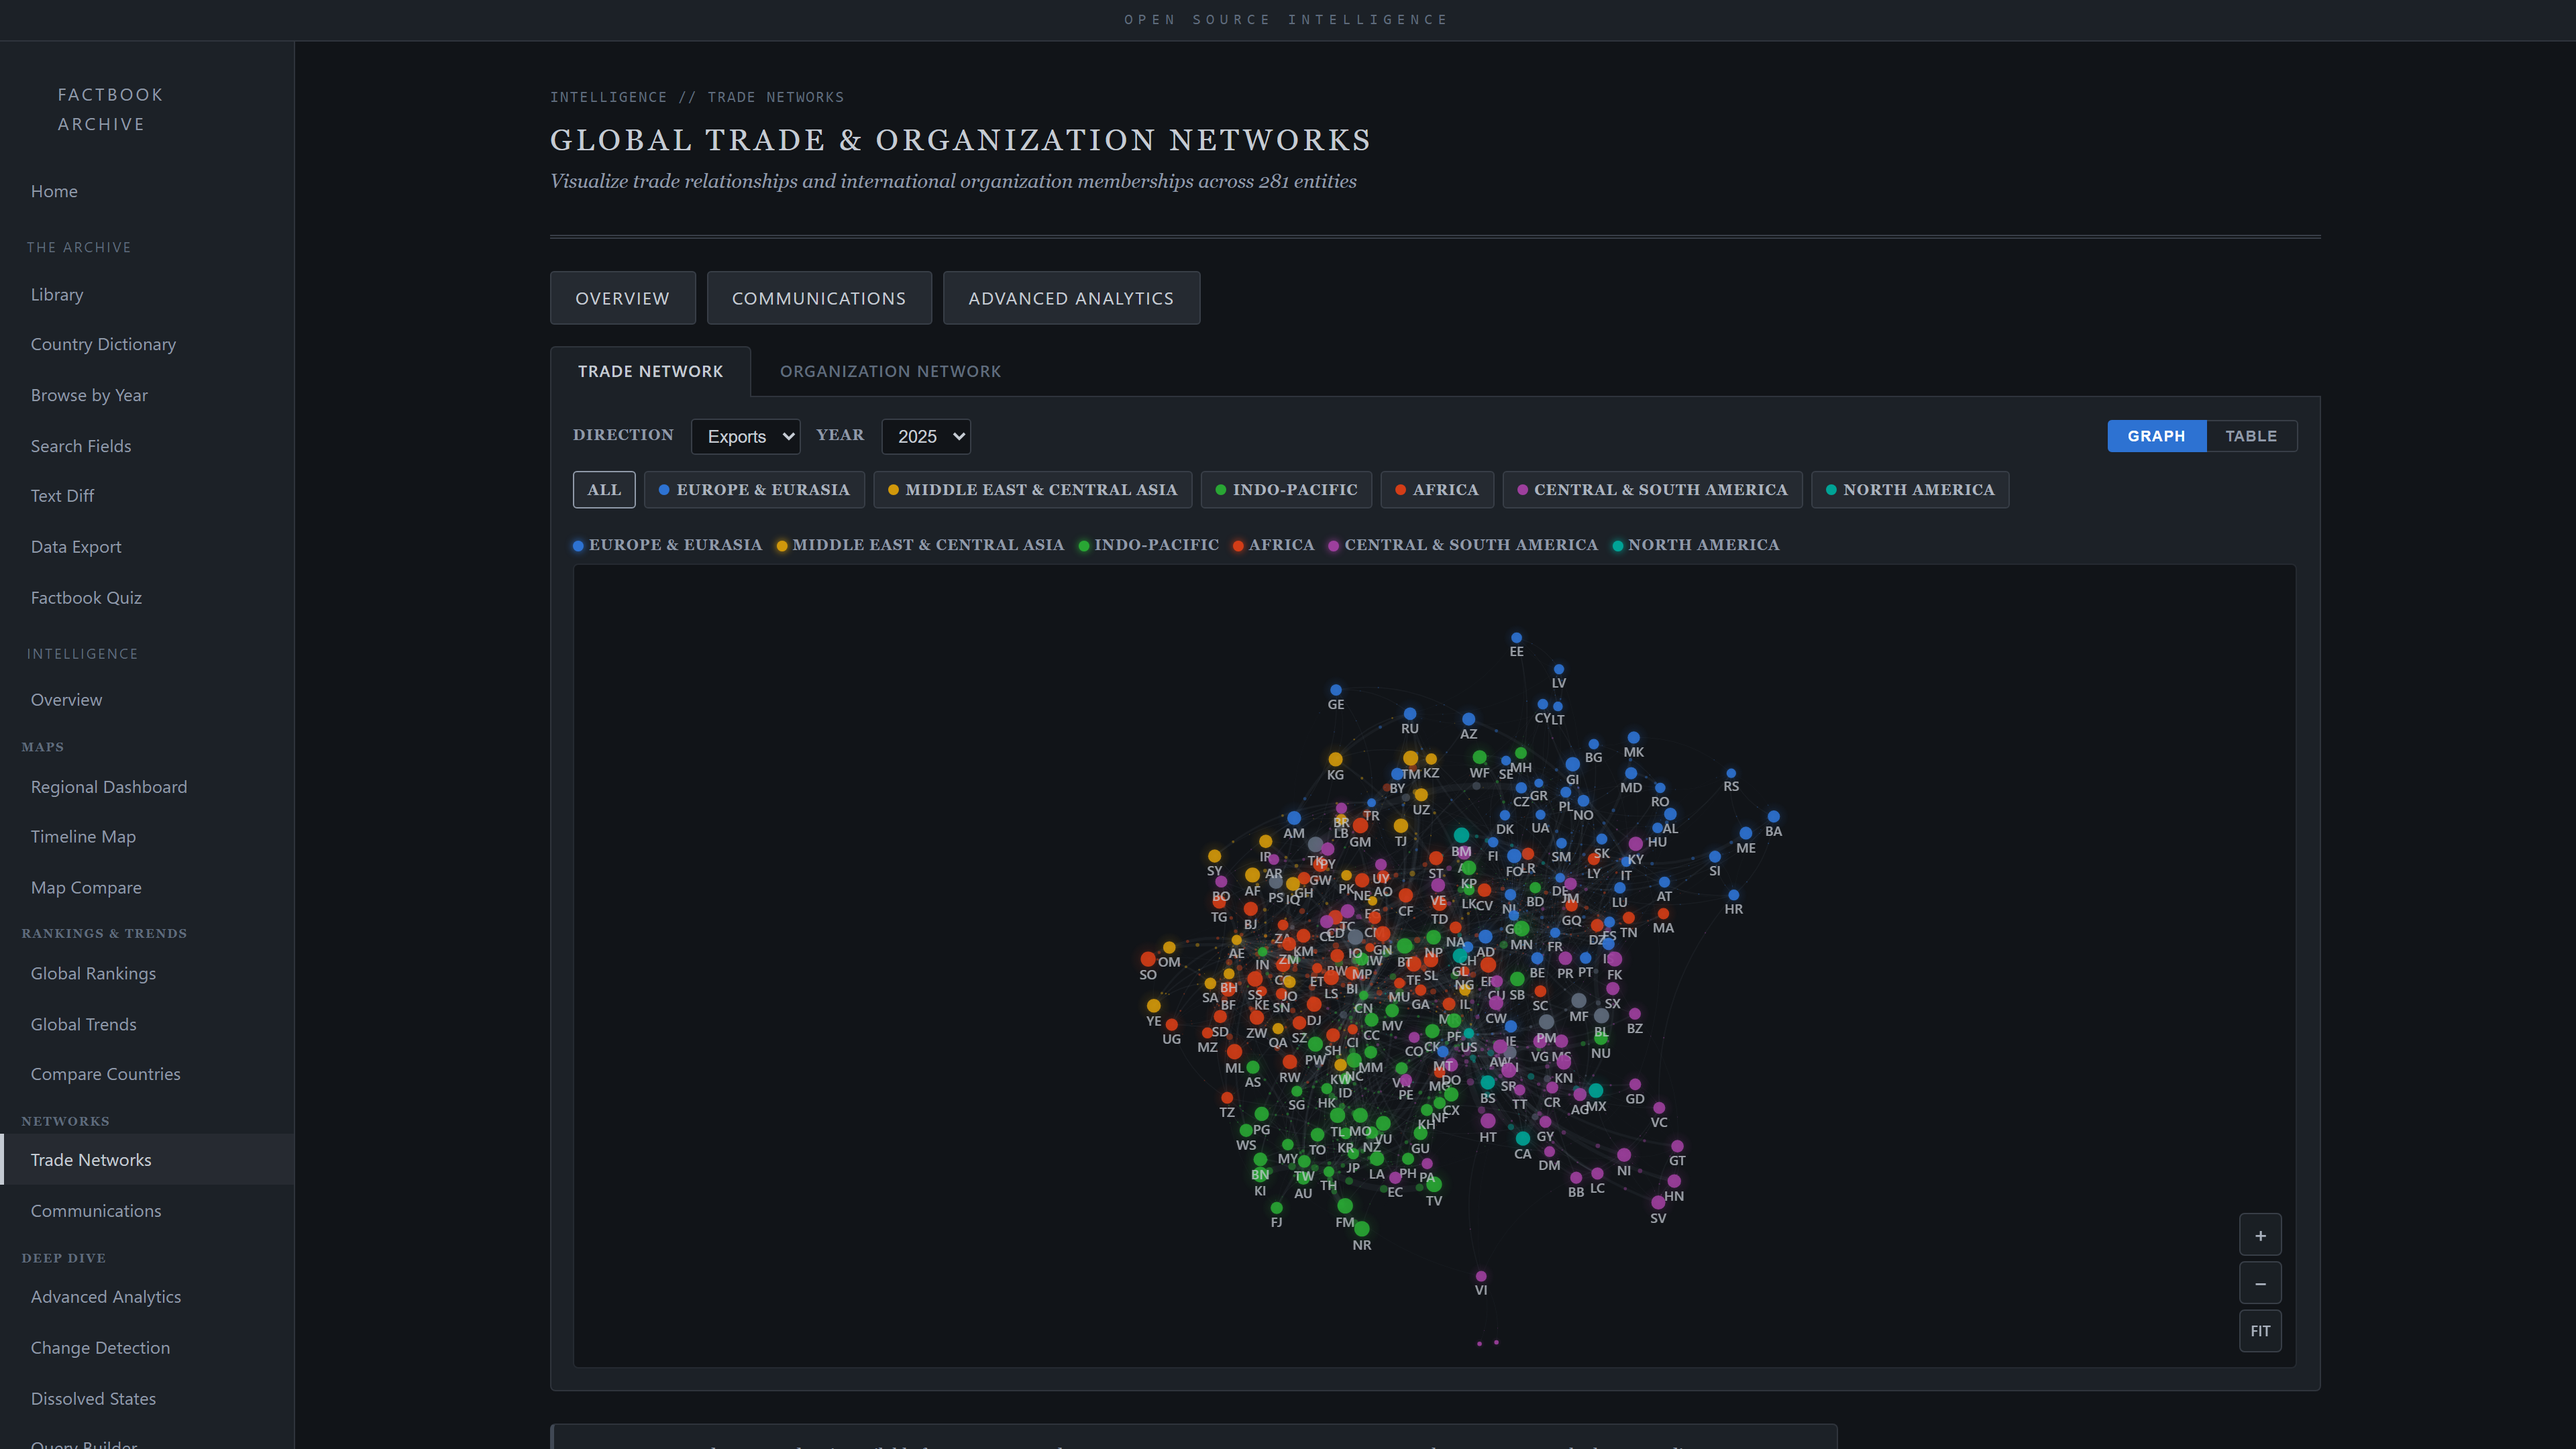
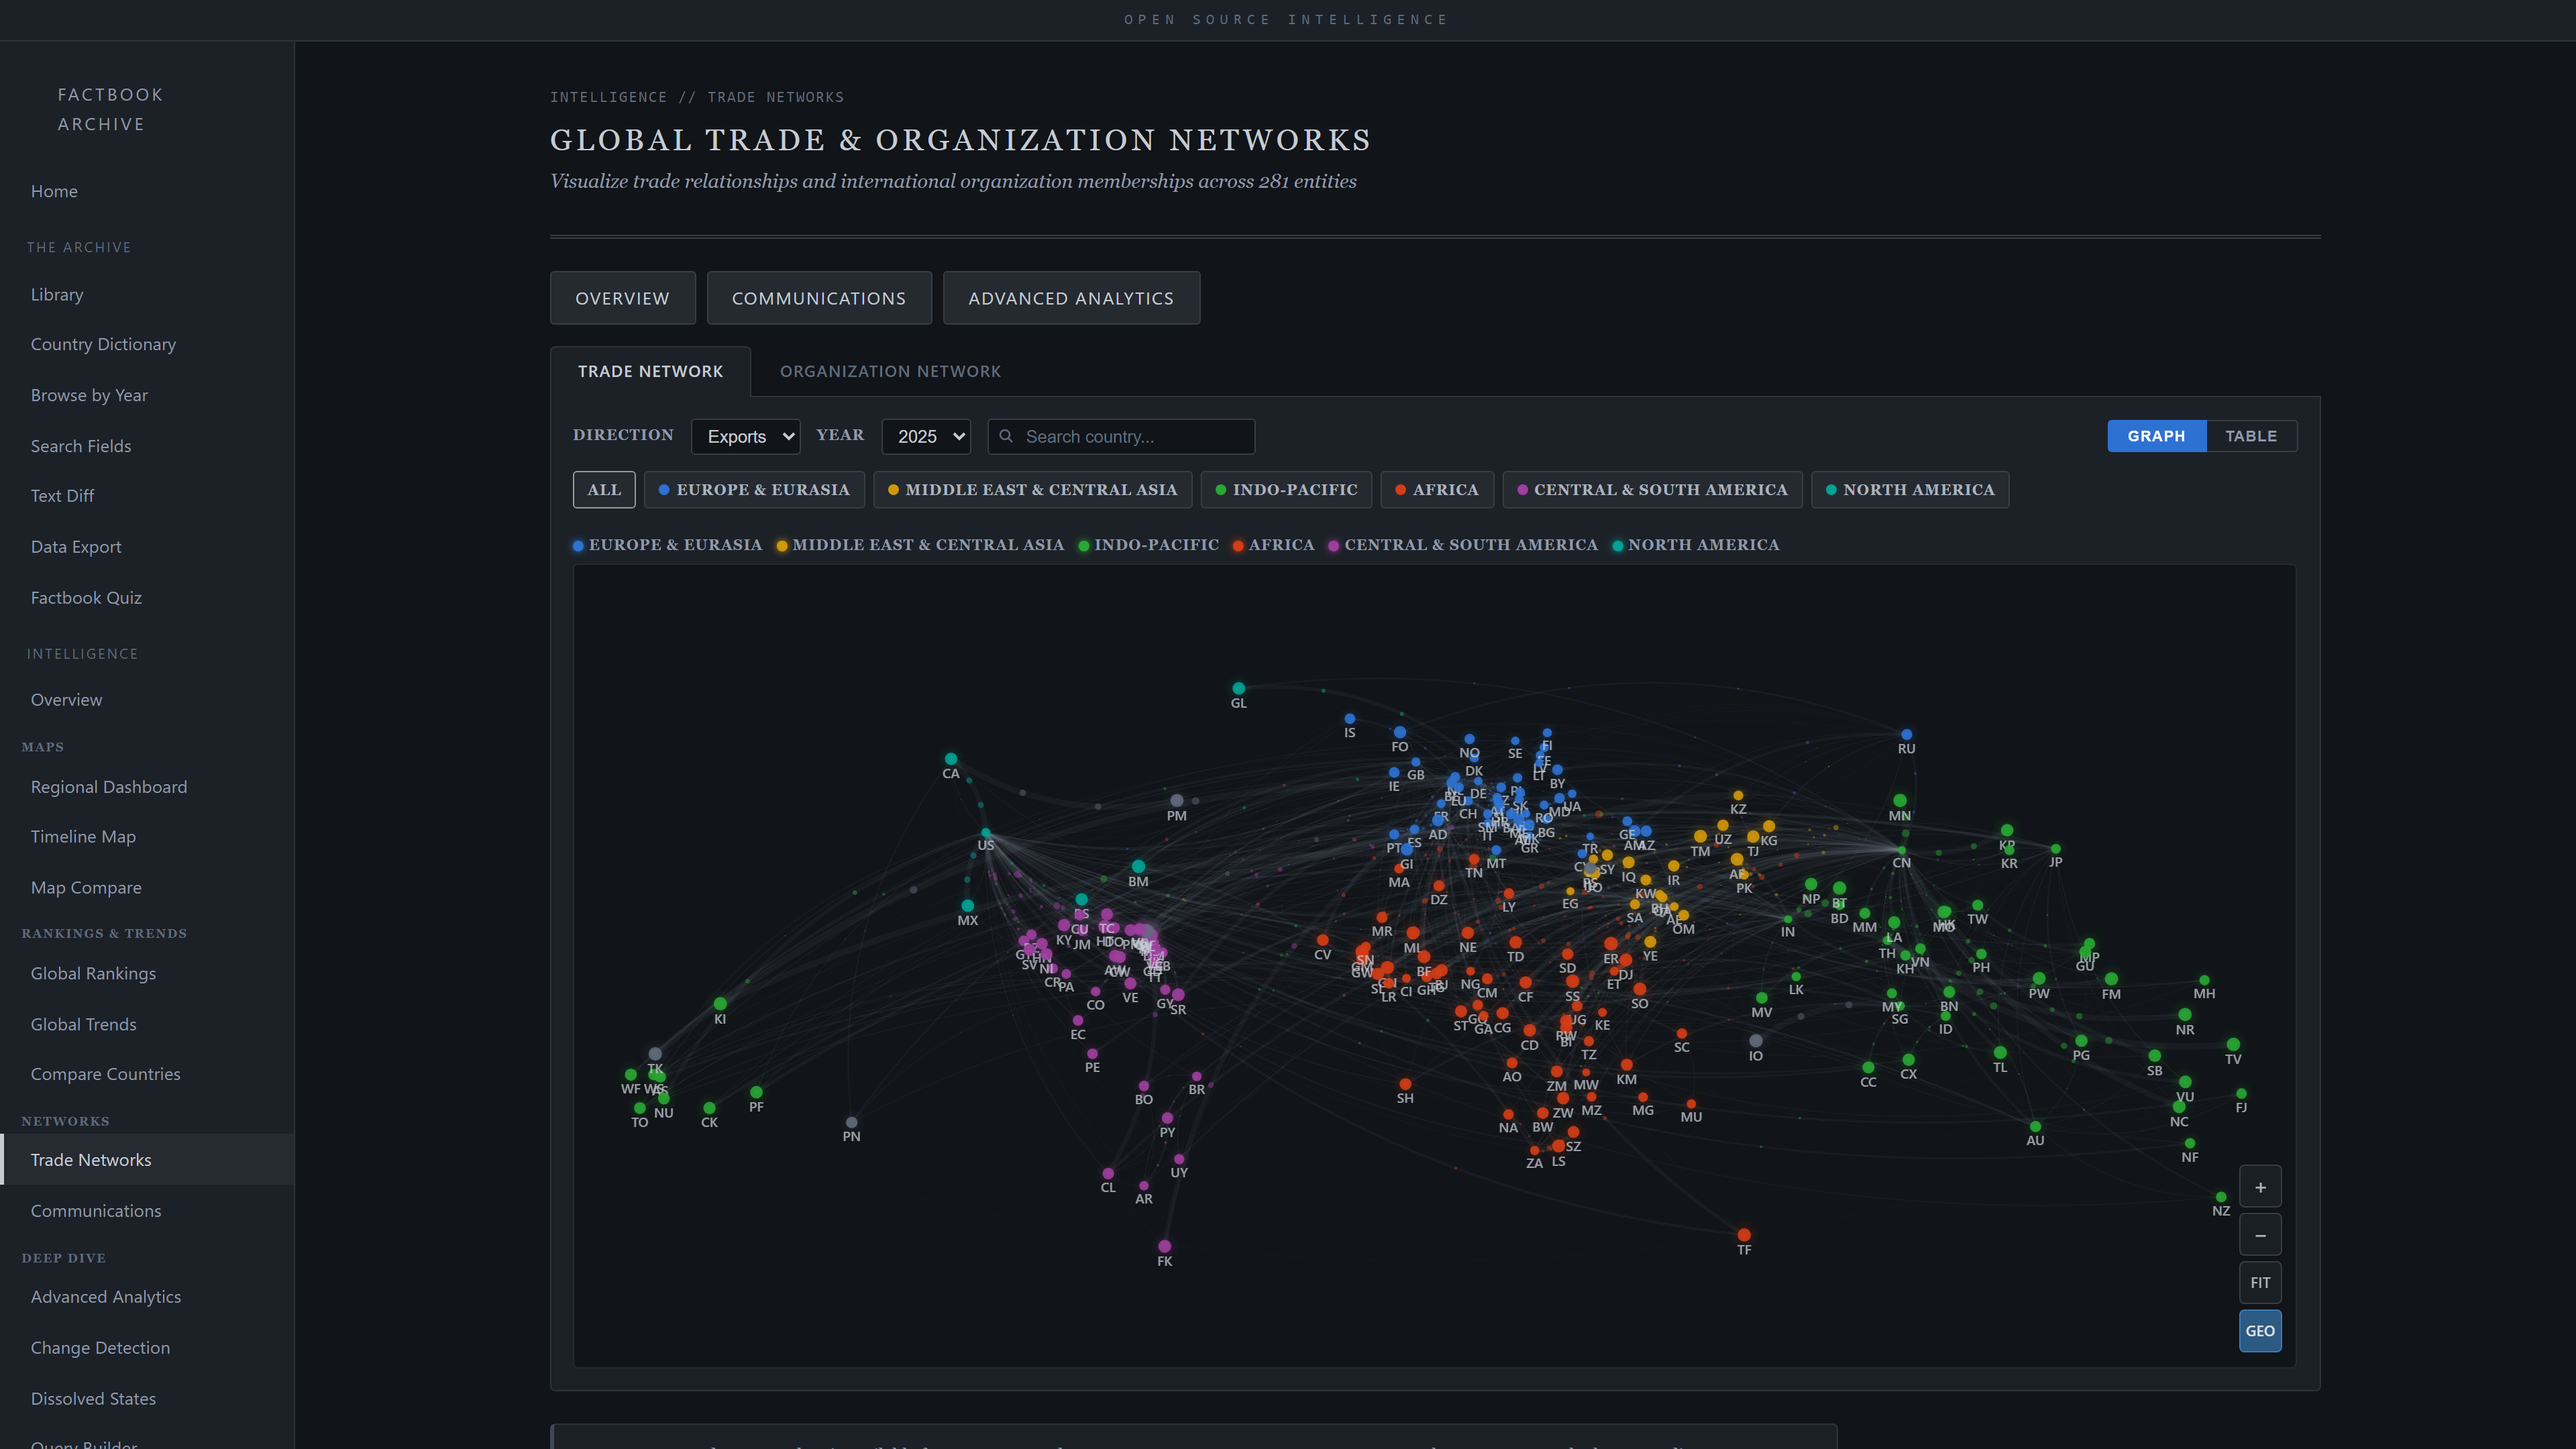
Add GEO layout toggle for trade networks, analytics enhancements, unified globe fog
- Trade network GEO button: equirectangular projection pins countries to world-map positions (default on load), toggle back to force-directed
- 246 country/territory centroids for geographic layout
- Analytics dashboard: content analytics, user journeys, referrer domains, search terms, click heatmap, bot fingerprinting, comparison mode, real-time pulse, CSV/JSON export, satellite map toggle
- 60s query caching + SQLite WAL mode to prevent lock contention
- Unified atmospheric fog effect across all Mapbox globes (timeline, region, communications)
- Searchable dropdowns on trade network (country + org search)
- Updated GIF demos and screenshots for GitHub Pages + README

diff --git a/docs/index.html b/docs/index.html
@@ -611,6 +611,18 @@ footer a:hover { text-decoration: underline; color: #8F99A8; }
             <button class="card-arrow right" aria-label="Next">&#10095;</button>
             <div class="gallery-caption"><strong>Dissolved States</strong><span>Historical entities no longer in the Factbook</span></div>
           </div>
+          <div class="gallery-card" data-idx="19">
+            <button class="card-arrow left" aria-label="Previous">&#10094;</button>
+            <div class="gallery-img-wrap"><img src="screenshots/trade_networks.png" alt="Trade Networks" loading="lazy"></div>
+            <button class="card-arrow right" aria-label="Next">&#10095;</button>
+            <div class="gallery-caption"><strong>Trade Networks</strong><span>Geographic layout of global trade relationships</span></div>
+          </div>
+          <div class="gallery-card" data-idx="20">
+            <button class="card-arrow left" aria-label="Previous">&#10094;</button>
+            <div class="gallery-img-wrap"><img src="screenshots/org_networks.png" alt="Organization Networks" loading="lazy"></div>
+            <button class="card-arrow right" aria-label="Next">&#10095;</button>
+            <div class="gallery-caption"><strong>Organization Networks</strong><span>International org memberships and alliances</span></div>
+          </div>
         </div>
         <div class="gallery-progress" id="gallery-progress"></div>
       </div>

diff --git a/README.md b/README.md
@@ -310,15 +310,15 @@ See [queries/sample_queries.sql](queries/sample_queries.sql) for 18 ready-to-use
 | ![Communications](docs/screenshots/communications.png) | ![Intelligence Dossier](docs/screenshots/dossier.png) |
 | **Communications Analysis** — Mapbox choropleth with internet, mobile, broadband indicators | **Intelligence Dossier** — Per-country assessment following ICD 203 standards |
 | ![Trade Networks](docs/screenshots/trade_networks.png) | ![Query Builder](docs/screenshots/query_builder.png) |
-| **Trade Networks** — Force-directed graph of global trade relationships | **Query Builder** — Custom analytical queries across all indicators |
+| **Trade Networks** — Geographic and force-directed graph of global trade relationships | **Query Builder** — Custom analytical queries across all indicators |
 | ![Global Rankings](docs/screenshots/rankings.png) | ![Global Trends](docs/screenshots/global_trends.png) |
 | **Global Rankings** — Sortable country rankings by any indicator | **Global Trends** — Multi-indicator time series across all editions |
 | ![Change Detection](docs/screenshots/change_detection.png) | ![Field Explorer](docs/screenshots/field_explorer.png) |
 | **Change Detection** — Year-over-year field changes with trend charts | **Field Explorer** — Browse all data fields with coverage statistics |
 | ![Threat Brief](docs/screenshots/threats.png) | ![Dissolved States](docs/screenshots/dissolved_states.png) |
 | **Regional Threat Brief** — COCOM-level instability and security indicators | **Dissolved States** — Historical entities no longer in the Factbook |
-| ![Factbook Quiz](docs/screenshots/quiz.png) | |
-| **Factbook Quiz** — 4 game modes to test your world knowledge | |
+| ![Factbook Quiz](docs/screenshots/quiz.png) | ![Organization Networks](docs/screenshots/org_networks.png) |
+| **Factbook Quiz** — 4 game modes to test your world knowledge | **Organization Networks** — International org memberships and alliances |
 
 
 
